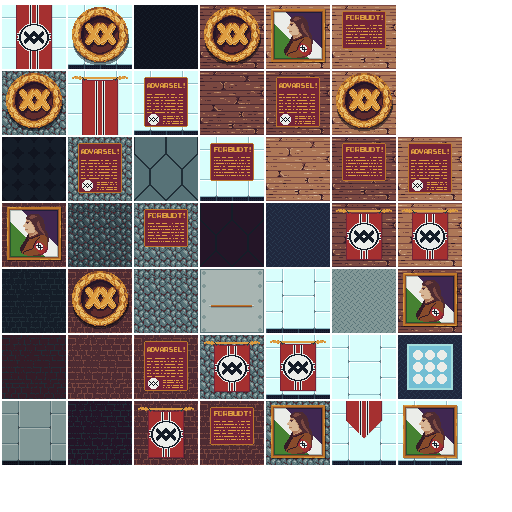
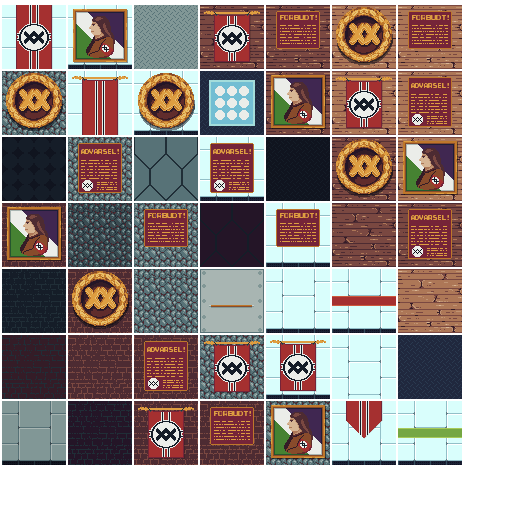
added more tiles + elevator down animation

Changed region(s): [[0.125, 0.0, 0.9062, 0.9062]]

diff --git a/source code/core/src/no/sandramoen/terfenstein3D/screens/gameplay/LevelScreen.java b/source code/core/src/no/sandramoen/terfenstein3D/screens/gameplay/LevelScreen.java
@@ -537,10 +537,15 @@ public class LevelScreen extends BaseScreen3D {
     }
 
     private void levelFinished() {
+        for (int i = 0; i < mapLoader.elevators.size; i++)
+            mapLoader.elevators.get(i).activate();
         BaseGame.elevatorSound.play(BaseGame.soundVolume);
         stopLevel();
         Array levelData = getLevelData();
-        BaseGame.setActiveScreen(new LevelFinishScreen(levelData, numLevel, hud.health, hud.armor, hud.bullets, hud.shells, hud.rockets, weaponHandler.weapons));
+        uiStage.addAction(Actions.sequence(
+                Actions.delay(.25f),
+                Actions.run(() -> BaseGame.setActiveScreen(new LevelFinishScreen(levelData, numLevel, hud.health, hud.armor, hud.bullets, hud.shells, hud.rockets, weaponHandler.weapons)))
+        ));
     }
 
     private void shadeHandler() {

diff --git a/source code/core/src/no/sandramoen/terfenstein3D/actors/Elevator.java b/source code/core/src/no/sandramoen/terfenstein3D/actors/Elevator.java
@@ -19,4 +19,8 @@ public class Elevator extends BaseActor3D {
         turnBy(-180 + rotation);
         setBaseRectangle();
     }
+
+    public void activate() {
+        loadImage("elevator down");
+    }
 }
